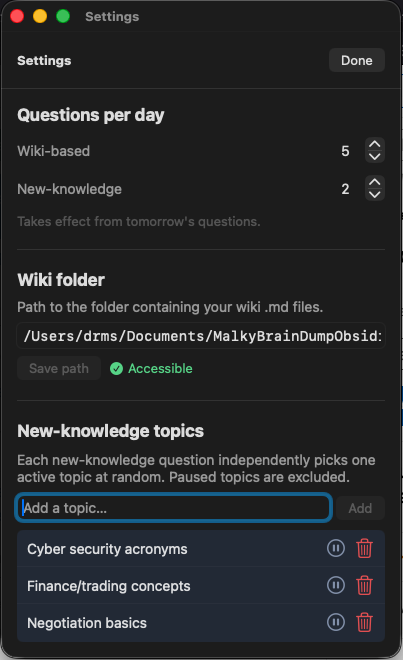
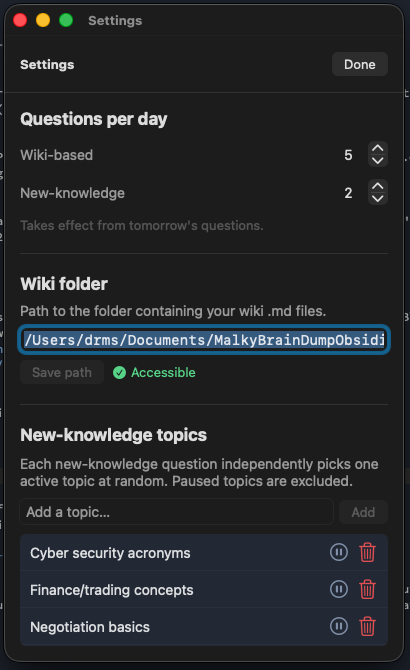
Update screenshots and captions to show SM-2 SRS features
Screenshots now show: next-interval footer (→ 1d), retired card label,
interval badge (100y), and the full rating button row with ELI5.

diff --git a/README.md b/README.md
@@ -2,9 +2,9 @@
 
 A macOS menu bar app for daily spaced repetition learning, driven by a personal knowledge wiki and AI-generated questions.
 
-![Daily Review panel showing questions with ELI5 active and the Discuss input open](screenshots/panel-questions.png)
+![Daily Review panel showing rated cards with SRS intervals, a retired card, and an unrated NEW card with rating buttons](screenshots/panel-questions.png)
 
-*Main panel: a card with the ELI5 simplified answer active (ELI5 button lit), rating buttons (ELI5 / AGAIN / HARD / GOT IT / BORING / DISCUSS), and the Discuss follow-up input open on another card.*
+*Main panel: rated cards showing next review interval (→ 1d) after GOT IT, a BORING card marked "retired", a 100-year interval badge on a previously-rated wiki card, and an unrated NEW card with the full ELI5 / AGAIN / HARD / GOT IT / BORING / DISCUSS button row.*
 
 ![Settings panel showing question counts, wiki folder path, and new-knowledge topics list](screenshots/settings-topics.png)
 